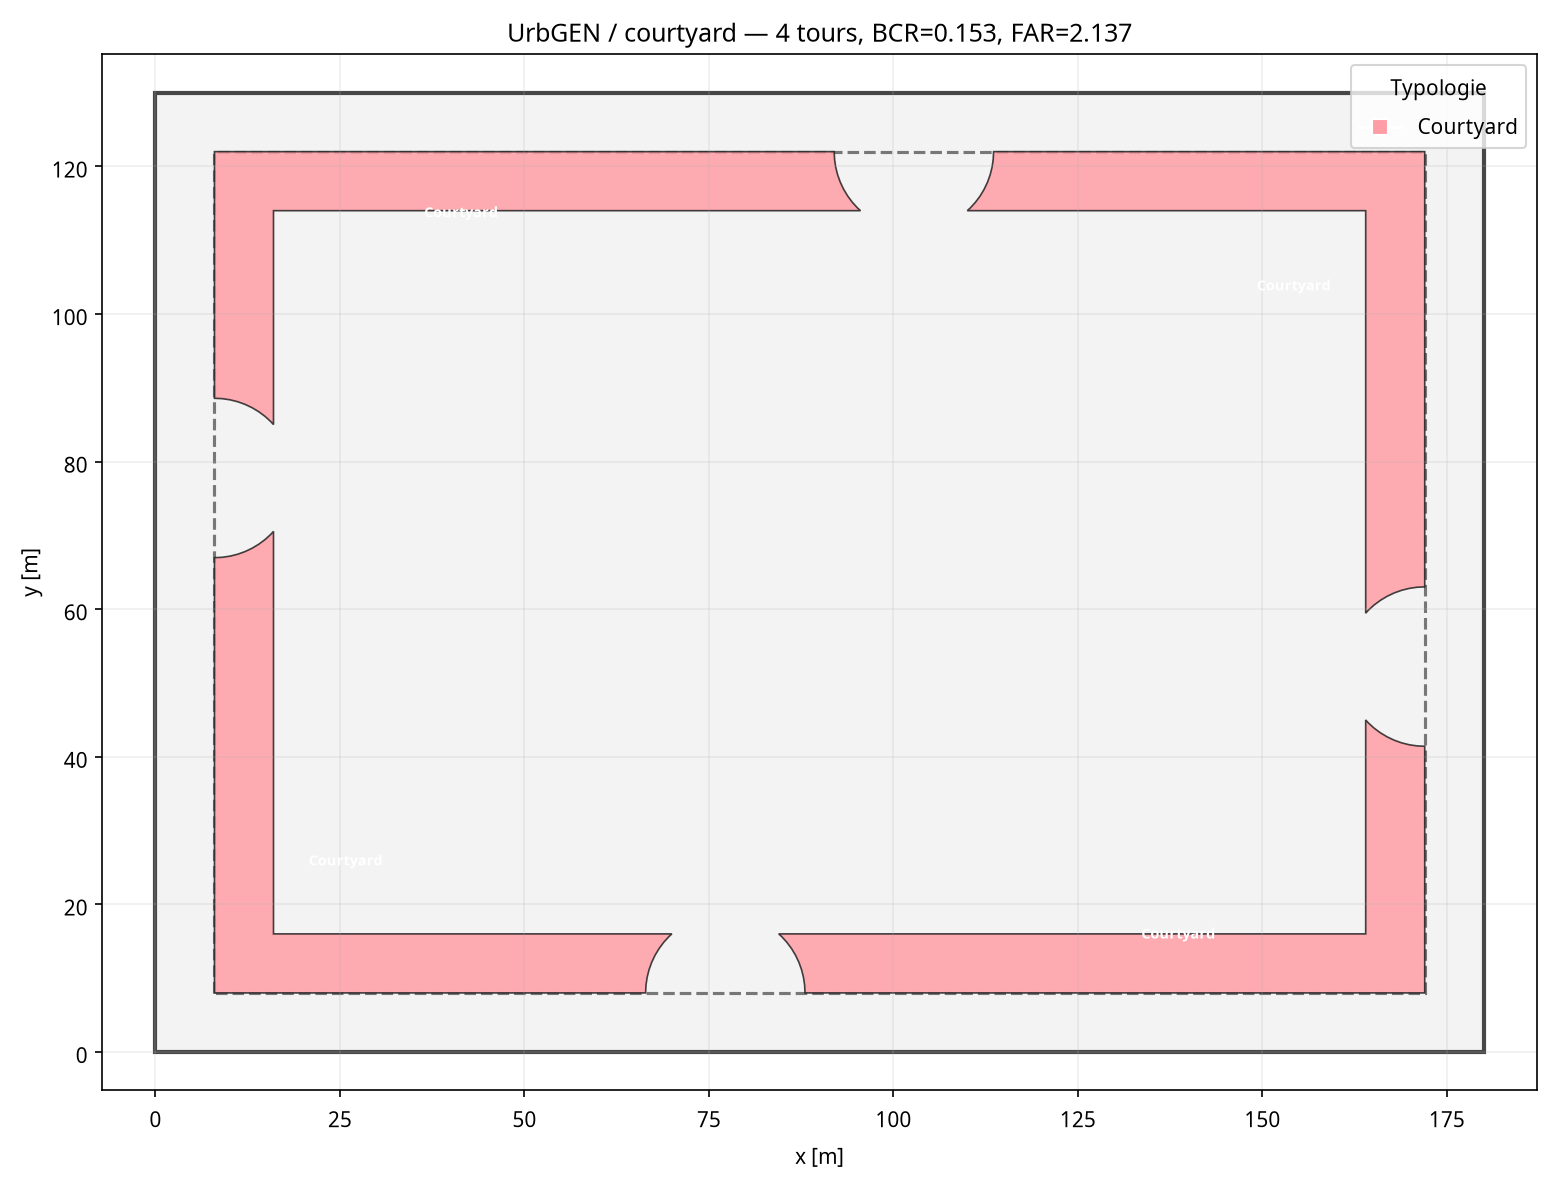
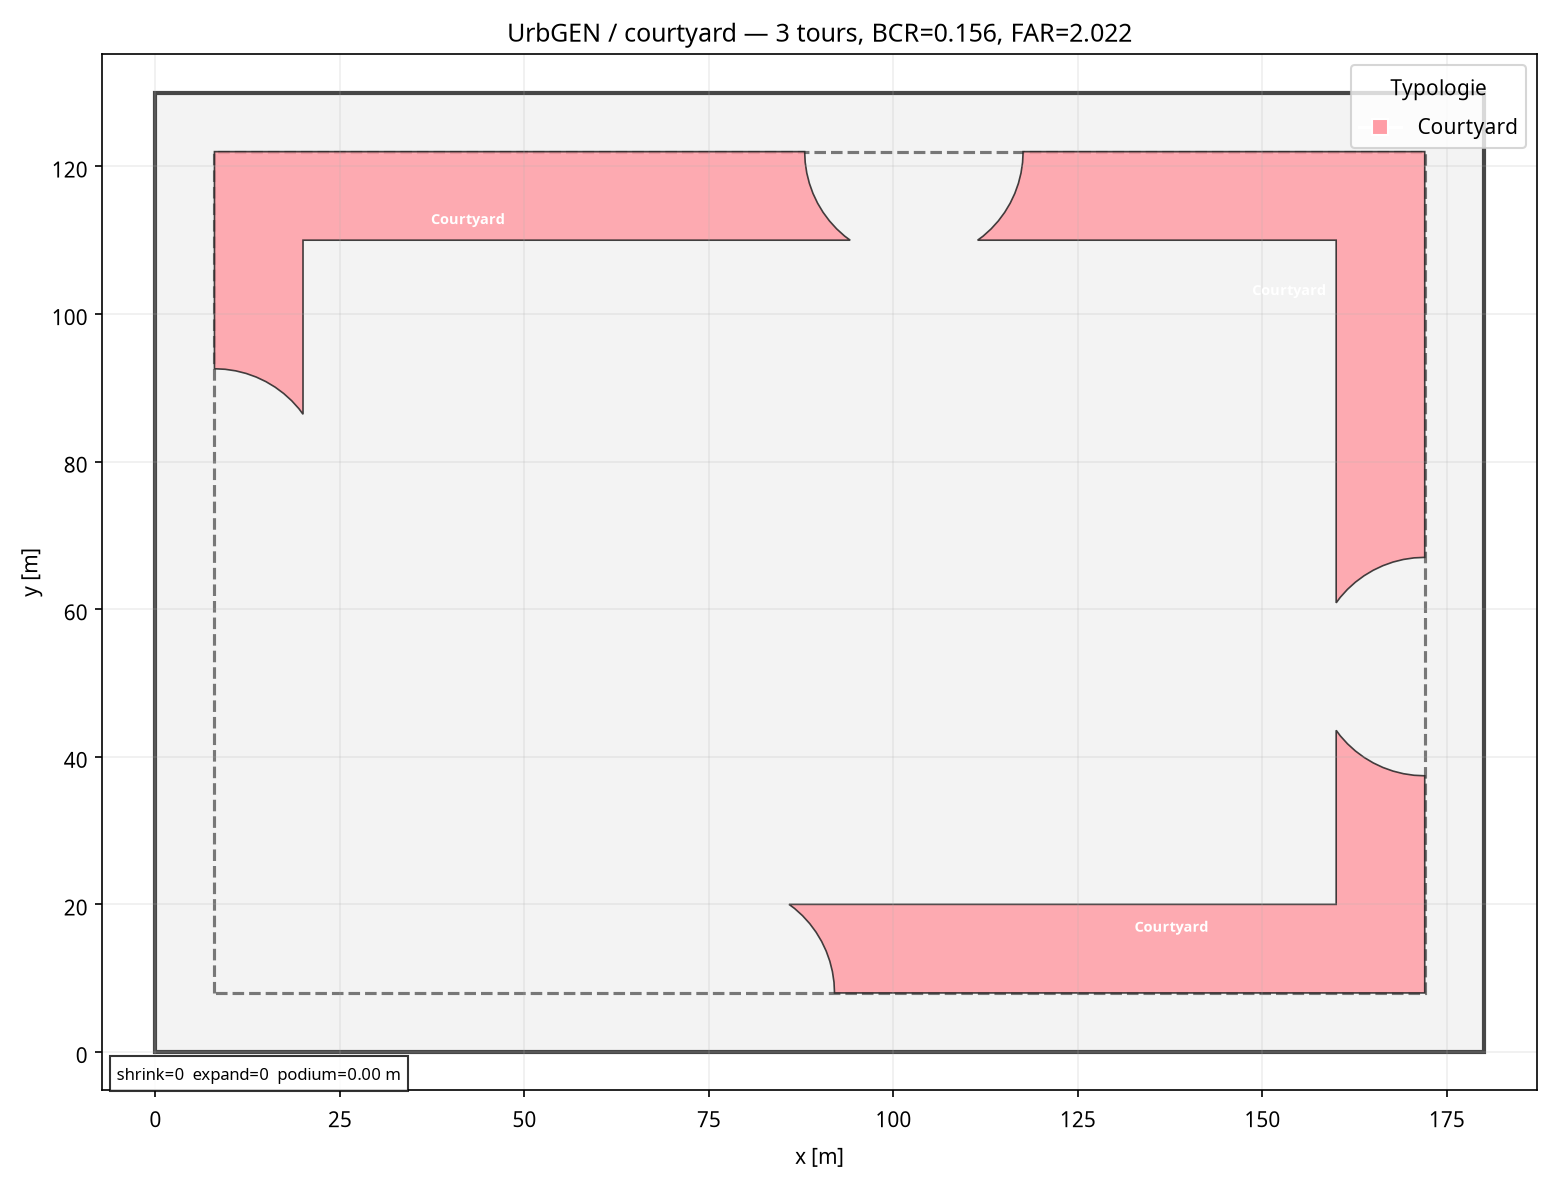
test(urban): add visual placement validation cases

diff --git a/foampilot/examples/building_geo/plot_urbgen_validation.py b/foampilot/examples/building_geo/plot_urbgen_validation.py
@@ -1,6 +1,7 @@
 """Generate visual validation images for the UrbGEN foampilot port."""
 from pathlib import Path
 import argparse
+import json
 
 import matplotlib.pyplot as plt
 from matplotlib.patches import Polygon as MplPolygon
@@ -37,6 +38,7 @@ def render_case(name: str, config: UrbGENConfig, output_dir: Path) -> Path:
     ax.set_xlabel("x [m]")
     ax.set_ylabel("y [m]")
     ax.set_title(f"UrbGEN / {name} — {len(result.tower_footprints)} tours, BCR={result.actual_bcr:.3f}, FAR={result.actual_far:.3f}")
+    ax.text(0.01, 0.01, f"shrink={result.diagnostics.get('shrink_iterations', 0)}  expand={result.diagnostics.get('expand_iterations', 0)}  podium={result.diagnostics.get('actual_podium_offset', 0):.2f} m", transform=ax.transAxes, fontsize=8, bbox={"facecolor": "white", "alpha": 0.8, "pad": 3})
     ax.grid(True, alpha=0.2)
     handles = [plt.Line2D([0], [0], marker="s", color="w", markerfacecolor=c, label=NAMES[k], markersize=8) for k, c in COLORS.items() if k in set(result.tower_typologies)]
     if handles:
@@ -46,6 +48,8 @@ def render_case(name: str, config: UrbGENConfig, output_dir: Path) -> Path:
     fig.tight_layout()
     fig.savefig(path, bbox_inches="tight")
     plt.close(fig)
+    metrics_path = output_dir / f"urbgen_{name.lower().replace(' ', '_')}.json"
+    metrics_path.write_text(json.dumps({"case": name, "actual_bcr": result.actual_bcr, "actual_far": result.actual_far, "tower_count": len(result.tower_footprints), "podium_count": len(result.podium_footprints), "diagnostics": result.diagnostics}, indent=2, default=float) + "\n")
     return path
 
 
@@ -57,6 +61,8 @@ def main():
         "random_typologies": UrbGENConfig(bcr=0.16, far=2.5, setback=8, tower_typology_mode=6, podium_floors=2, height_variation=0.25, seed=42),
         "courtyard": UrbGENConfig(bcr=0.20, far=2.0, setback=8, tower_typology_mode=7, courtyard_break_count=4, courtyard_break_width=8, podium_floors=0, seed=42),
         "edge_aligned": UrbGENConfig(bcr=0.14, far=3.0, setback=8, tower_typology_mode=3, align_towers_to_edge=True, move_to_boundary=True, podium_floors=2, seed=42),
+        "setback_moved": UrbGENConfig(bcr=0.14, far=2.5, setback=12, tower_typology_mode=2, move_all_to_setback=True, podium_floors=0, seed=42),
+        "podium_edge": UrbGENConfig(bcr=0.12, far=2.0, setback=8, tower_typology_mode=1, move_tower_to_podium_edge=True, podium_floors=2, seed=42),
     }
     for name, config in cases.items():
         print(render_case(name, config, args.output))

diff --git a/foampilot/examples/building_geo/URBGEN_PARITY_MATRIX.md b/foampilot/examples/building_geo/URBGEN_PARITY_MATRIX.md
@@ -22,3 +22,17 @@ Le score publié doit être calculé comme la somme des groupes validés, et non
 ## Fixtures nécessaires
 
 Pour une parité numérique complète, il faut au minimum exporter depuis Grasshopper, pour trois sites (rectangle, concave, multi-zone), deux seeds et les modes typologiques 0–7 : les empreintes, centres, angles, niveaux, surfaces, BCR, FAR, podiums et diagnostics. Les fixtures doivent être stockées dans un format JSON indépendant de Rhino, avec une tolérance géométrique explicitement indiquée.
+
+## Validation visuelle round 3
+
+Le visualiseur `plot_urbgen_validation.py` produit cinq scénarios avec un PNG et un JSON de métriques pour chacun.
+
+| Scénario | BCR observé | FAR observé | Tours | Podiums | Contrôle visuel |
+|---|---:|---:|---:|---:|---|
+| random_typologies | 0.1600 | 2.4215 | 4 | 4 | Valide |
+| courtyard | 0.1555 | 2.0221 | 3 | 0 | Couronne et ruptures visibles |
+| edge_aligned | 0.1401 | 3.0278 | 4 | 4 | Orientations et containment valides |
+| setback_moved | 0.0931 | 2.5131 | 5 | 0 | Déplacement et containment valides |
+| podium_edge | 0.1201 | 2.0124 | 5 | 5 | Podiums individuels et containment valides |
+
+Les contrôles visuels ont été effectués sur les cas `setback_moved`, `podium_edge`, `edge_aligned` et `courtyard`. Les fichiers JSON associés conservent les diagnostics de convergence, le nombre d’itérations et les hauteurs pour une validation automatisée ultérieure.
